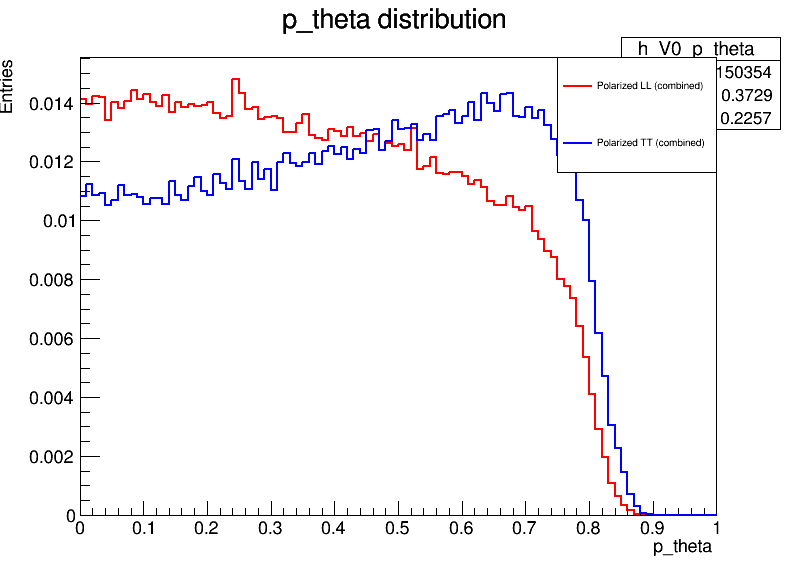
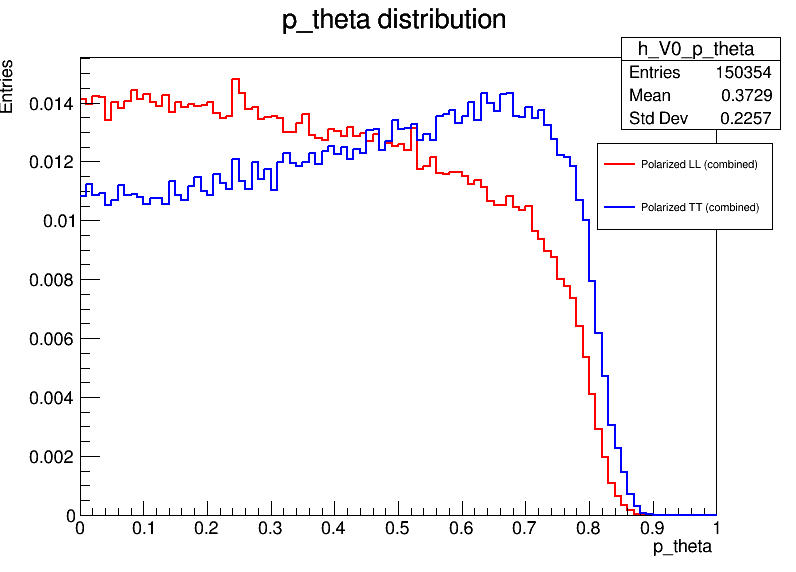
Exploratory data analysis for deta, dphi, mVV implemented

Changed region(s): [[0.6935, 0.0892, 0.9648, 0.2972], [0.7839, 0.3566, 0.9648, 0.3864], [0.7236, 0.2972, 0.7538, 0.3269]]

diff --git a/VBS_ML_Model/data_analysis/plotting.c b/VBS_ML_Model/data_analysis/plotting.c
@@ -9,26 +9,61 @@ void stacked_histogram()
 
     // Open the .root files
     TFile *file_V0_LL = TFile::Open("output/Histo_h_V0_p_theta_Processed_SampleWPJJWMJJjj_EWK_PolarLL_FrameWW_LO_4f_mmjj150_ptW300_CategoryBB_Modulereco_Tagv1p2POL.root");
-    TFile *file_V1_LL = TFile::Open("output/Histo_h_V1_p_theta_Processed_SampleWPJJWMJJjj_EWK_PolarLL_FrameWW_LO_4f_mmjj150_ptW300_CategoryBB_Modulereco_Tagv1p2POL.root");
     TFile *file_V0_TT = TFile::Open("output/Histo_h_V0_p_theta_Processed_SampleWPJJWMJJjj_EWK_PolarTT_FrameWW_LO_4f_mmjj150_ptW300_CategoryBB_Modulereco_Tagv1p2POL.root");
+    
+    TFile *file_V1_LL = TFile::Open("output/Histo_h_V1_p_theta_Processed_SampleWPJJWMJJjj_EWK_PolarLL_FrameWW_LO_4f_mmjj150_ptW300_CategoryBB_Modulereco_Tagv1p2POL.root");
     TFile *file_V1_TT = TFile::Open("output/Histo_h_V1_p_theta_Processed_SampleWPJJWMJJjj_EWK_PolarTT_FrameWW_LO_4f_mmjj150_ptW300_CategoryBB_Modulereco_Tagv1p2POL.root");
 
-    // Check if files are opened successfully
+    TFile *file_VV_deta_LL = TFile::Open("output_deta_dphi_mVV/Histo_h_VV_deta_Processed_SampleWPJJWMJJjj_EWK_PolarLL_FrameWW_LO_4f_mmjj150_ptW300_CategoryBB_Modulereco_Tagv1p2POL.root");
+    TFile *file_VV_deta_TT = TFile::Open("output_deta_dphi_mVV/Histo_h_VV_deta_Processed_SampleWPJJWMJJjj_EWK_PolarTT_FrameWW_LO_4f_mmjj150_ptW300_CategoryBB_Modulereco_Tagv1p2POL.root");
+
+    TFile *file_VV_dphi_LL = TFile::Open("output_deta_dphi_mVV/Histo_h_VV_dphi_Processed_SampleWPJJWMJJjj_EWK_PolarLL_FrameWW_LO_4f_mmjj150_ptW300_CategoryBB_Modulereco_Tagv1p2POL.root");
+    TFile *file_VV_dphi_TT = TFile::Open("output_deta_dphi_mVV/Histo_h_VV_dphi_Processed_SampleWPJJWMJJjj_EWK_PolarTT_FrameWW_LO_4f_mmjj150_ptW300_CategoryBB_Modulereco_Tagv1p2POL.root");
+    
+    TFile *file_VV_mVV_LL = TFile::Open("output_deta_dphi_mVV/Histo_h_VV_mVV_Processed_SampleWPJJWMJJjj_EWK_PolarLL_FrameWW_LO_4f_mmjj150_ptW300_CategoryBB_Modulereco_Tagv1p2POL.root");
+    TFile *file_VV_mVV_TT = TFile::Open("output_deta_dphi_mVV/Histo_h_VV_mVV_Processed_SampleWPJJWMJJjj_EWK_PolarTT_FrameWW_LO_4f_mmjj150_ptW300_CategoryBB_Modulereco_Tagv1p2POL.root");
+
+
+    // Check if files for p_theta are opened successfully
     if (!file_V0_LL || file_V0_LL->IsZombie() || !file_V1_LL || file_V1_LL->IsZombie() ||
         !file_V0_TT || file_V0_TT->IsZombie() || !file_V1_TT || file_V1_TT->IsZombie()) {
         std::cout << "Failed to open one or more files!" << std::endl;
         return;
     }
 
+    // Check if files deta, dphi and dmVV are opened successfully
+    if (!file_VV_deta_LL || file_VV_deta_LL->IsZombie() || !file_VV_deta_TT || file_VV_deta_TT->IsZombie() ||
+        !file_VV_dphi_LL || file_VV_dphi_LL->IsZombie() || !file_VV_dphi_TT || file_VV_dphi_TT->IsZombie() ||
+        !file_VV_mVV_LL || file_VV_mVV_LL->IsZombie() || !file_VV_mVV_TT || file_VV_mVV_TT->IsZombie()) {
+        std::cout << "Failed to open one or more files!" << std::endl;
+        return;
+    }
+
     // Extract histograms from the files
     auto hist_V0_LL = (TH1F*)file_V0_LL->Get("h_V0_p_theta");
-    auto hist_V1_LL = (TH1F*)file_V1_LL->Get("h_V1_p_theta");
     auto hist_V0_TT = (TH1F*)file_V0_TT->Get("h_V0_p_theta");
+
+    auto hist_V1_LL = (TH1F*)file_V1_LL->Get("h_V1_p_theta");
     auto hist_V1_TT = (TH1F*)file_V1_TT->Get("h_V1_p_theta");
+
+    auto hist_VV_deta_LL = (TH1F*)file_VV_deta_LL->Get("h_VV_deta");
+    auto hist_VV_deta_TT = (TH1F*)file_VV_deta_TT->Get("h_VV_deta");
+
+    auto hist_VV_dphi_LL = (TH1F*)file_VV_dphi_LL->Get("h_VV_dphi");
+    auto hist_VV_dphi_TT = (TH1F*)file_VV_dphi_TT->Get("h_VV_dphi");
+
+    auto hist_VV_mVV_LL = (TH1F*)file_VV_mVV_LL->Get("h_VV_mVV");
+    auto hist_VV_mVV_TT = (TH1F*)file_VV_mVV_TT->Get("h_VV_mVV");
 
     // Check if histograms are retrieved successfully
     if (!hist_V0_LL || !hist_V1_LL || !hist_V0_TT || !hist_V1_TT) {
         std::cout << "Failed to retrieve histograms!" << std::endl;
+        return;
+    }
+
+    // Check if histograms are retrieved successfully
+    if (!hist_VV_deta_LL || !hist_VV_deta_TT || !hist_VV_dphi_LL || !hist_VV_dphi_TT || !hist_VV_mVV_LL || !hist_VV_mVV_TT) {
+        std::cout << "Failed to retrieve histograms for dphi or mVV!" << std::endl;
         return;
     }
 
@@ -38,13 +73,37 @@ void stacked_histogram()
 
     // Customize the appearance of the histograms
     hist_V0_LL->SetLineColor(kRed);
-    hist_V0_LL->SetLineWidth(2);
-
     hist_V0_TT->SetLineColor(kBlue);
+
+    hist_V0_LL->SetLineWidth(2);
     hist_V0_TT->SetLineWidth(2);
 
     hist_V0_LL->GetXaxis()->SetTitle("p_theta");
     hist_V0_LL->GetYaxis()->SetTitle("Entries");
+
+    hist_VV_deta_LL->SetLineColor(kRed);
+    hist_VV_deta_TT->SetLineColor(kBlue);
+
+    hist_VV_dphi_LL->SetLineColor(kRed);
+    hist_VV_dphi_TT->SetLineColor(kBlue);
+    
+    hist_VV_mVV_LL->SetLineColor(kRed);
+    hist_VV_mVV_TT->SetLineColor(kBlue);
+
+    hist_VV_deta_LL->SetLineWidth(2);
+    hist_VV_deta_TT->SetLineWidth(2);
+
+    hist_VV_dphi_LL->SetLineWidth(2);
+    hist_VV_dphi_TT->SetLineWidth(2);
+    
+    hist_VV_mVV_LL->SetLineWidth(2);
+    hist_VV_mVV_TT->SetLineWidth(2);
+
+    /*
+    
+        Plottings for deta, dphi, and mVV histograms
+
+    */
 
     // Normalize histograms
     hist_V0_LL->Scale(1. / hist_V0_LL->Integral());
@@ -56,7 +115,7 @@ void stacked_histogram()
     hist_V0_TT->Draw("samehist");
 
     // Add a legend
-    auto legend = new TLegend(0.7, 0.7, 0.9, 0.9);
+    auto legend = new TLegend(0.75, 0.75, 0.97, 0.6);
     legend->AddEntry(hist_V0_LL, "Polarized LL (combined)", "l");
     legend->AddEntry(hist_V0_TT, "Polarized TT (combined)", "l");
     legend->Draw();
@@ -65,9 +124,63 @@ void stacked_histogram()
     std::string output_file = std::string(output_dir) + "/p_theta_V0_V1_combined_histogram.png";
     canvas->SaveAs(output_file.c_str());
 
+
+    /*
+    
+        Plottings for deta, dphi, and mVV histograms
+
+    */
+
+
+    // Create canvases and save plots for deta, dphi, and mVV histograms
+    hist_VV_deta_LL->Scale(1. / hist_VV_deta_LL->Integral());
+    hist_VV_deta_TT->Scale(1. / hist_VV_deta_TT->Integral());
+    
+    hist_VV_dphi_LL->Scale(1. / hist_VV_dphi_LL->Integral());
+    hist_VV_dphi_TT->Scale(1. / hist_VV_dphi_TT->Integral());
+
+    hist_VV_mVV_LL->Scale(1. / hist_VV_mVV_LL->Integral());
+    hist_VV_mVV_TT->Scale(1. / hist_VV_mVV_TT->Integral());
+
+    // Plotting deta
+    auto canvas1 = new TCanvas("canvas1", "deta Histogram", 800, 600);
+    hist_VV_deta_LL->Draw("hist");
+    hist_VV_deta_TT->Draw("samehist");
+    auto legend1 = new TLegend(0.75, 0.75, 0.97, 0.6);
+    legend1->AddEntry(hist_VV_deta_LL, "Polarized LL (deta)", "l");
+    legend1->AddEntry(hist_VV_deta_TT, "Polarized TT (deta)", "l");
+    legend1->Draw();
+    canvas1->SaveAs((std::string(output_dir) + "/deta_histogram.png").c_str());
+
+    // Plotting dphi
+    auto canvas2 = new TCanvas("canvas2", "dphi Histogram", 800, 600);
+    hist_VV_dphi_LL->Draw("hist");
+    hist_VV_dphi_TT->Draw("samehist");
+    auto legend2 = new TLegend(0.75, 0.75, 0.97, 0.6);
+    legend2->AddEntry(hist_VV_dphi_LL, "Polarized LL (dphi)", "l");
+    legend2->AddEntry(hist_VV_dphi_TT, "Polarized TT (dphi)", "l");
+    legend2->Draw();
+    canvas2->SaveAs((std::string(output_dir) + "/dphi_histogram.png").c_str());
+
+    // Plotting mVV
+    auto canvas3 = new TCanvas("canvas3", "mVV Histogram", 800, 600);
+    hist_VV_mVV_LL->Draw("hist");
+    hist_VV_mVV_TT->Draw("samehist");
+    auto legend3 = new TLegend(0.75, 0.75, 0.97, 0.6);
+    legend3->AddEntry(hist_VV_mVV_LL, "Polarized LL (mVV)", "l");
+    legend3->AddEntry(hist_VV_mVV_TT, "Polarized TT (mVV)", "l");
+    legend3->Draw();
+    canvas3->SaveAs((std::string(output_dir) + "/mVV_histogram.png").c_str());
+
     // Close the files
     file_V0_LL->Close();
     file_V1_LL->Close();
     file_V0_TT->Close();
     file_V1_TT->Close();
+    file_VV_deta_LL->Close();
+    file_VV_deta_TT->Close();
+    file_VV_dphi_LL->Close();
+    file_VV_dphi_TT->Close();
+    file_VV_mVV_LL->Close();
+    file_VV_mVV_TT->Close();
 }

diff --git a/VBS_ML_Model/data_analysis/data_exploration_deta_dphi_mVV.py b/VBS_ML_Model/data_analysis/data_exploration_deta_dphi_mVV.py
@@ -1,0 +1,48 @@
+import ROOT
+import os
+
+# Enable multi-threading for ROOT
+ROOT.EnableImplicitMT(4)
+
+# List of sample files
+sample_list = [
+    "Processed_SampleWPJJWMJJjj_EWK_PolarLL_FrameWW_LO_4f_mmjj150_ptW300_CategoryBB_Modulereco_Tagv1p2POL",
+    "Processed_SampleWPJJWMJJjj_EWK_PolarTT_FrameWW_LO_4f_mmjj150_ptW300_CategoryBB_Modulereco_Tagv1p2POL"
+]
+
+# Define the path to the data files
+data_path = "/eos/user/a/apakkila/VBS_ML_project/data"
+
+# Ensure the output directory exists
+output_dir = "./output_deta_dphi_mVV"
+if not os.path.exists(output_dir):
+    os.makedirs(output_dir)
+
+# Loop over each sample in the sample list
+for sample_name in sample_list:
+    print(f"Processing sample: {sample_name}")
+
+    # File path for the current sample
+    file_path = f"{data_path}/{sample_name}.root"
+
+    # Load the ROOT file into RDataFrame
+    tree = "Events"  # Replace with the actual tree name
+    df_root = ROOT.RDataFrame(tree, file_path)
+
+    # Dictionary for histrograms from multiple files
+    histosDict = {}
+
+    # Create histograms
+    histosDict["h_VV_deta_" + sample_name] = df_root.Histo1D(("h_VV_deta", "deta distribution", 100, 0, 5), "VV_deta")
+    histosDict["h_VV_dphi_" + sample_name] = df_root.Histo1D(("h_VV_dphi", "dphi distribution", 50, 2, 3.2), "VV_dphi")
+    histosDict["h_VV_mVV_" + sample_name] = df_root.Histo1D(("h_VV_mVV", "dmVV distribution", 200, 400, 3500), "VV_mVV")
+
+    # Save histograms to a ROOT file
+    for hName in histosDict:
+        outFile = f"{output_dir}/Histo_{hName}.root"
+        print(f"Saving histograms in {outFile}")
+        outHisto = ROOT.TFile(outFile, "RECREATE")
+        histosDict[hName].Write()
+        outHisto.Close()
+
+print("All histograms saved successfully!")

diff --git a/VBS_ML_Model/data_analysis/data_exploration_p_theta.py b/VBS_ML_Model/data_analysis/data_exploration_p_theta.py
@@ -1,7 +1,7 @@
 import ROOT
 import os
 
-# Enable multi-threading for ROOT (optional, improves performance)
+# Enable multi-threading for ROOT
 ROOT.EnableImplicitMT(4)
 
 # List of sample files
